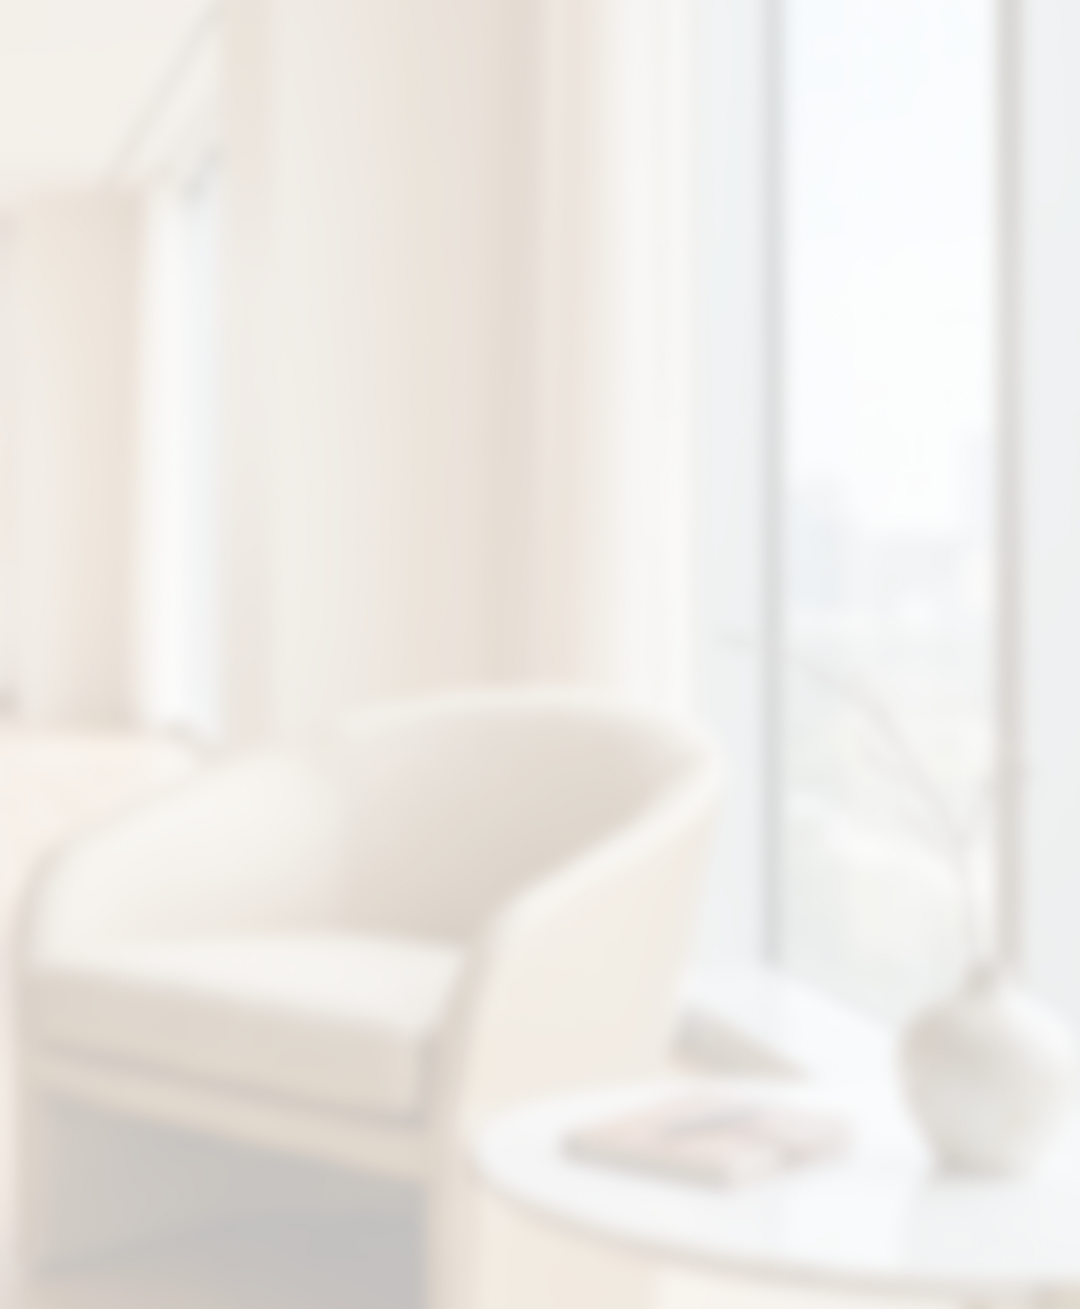
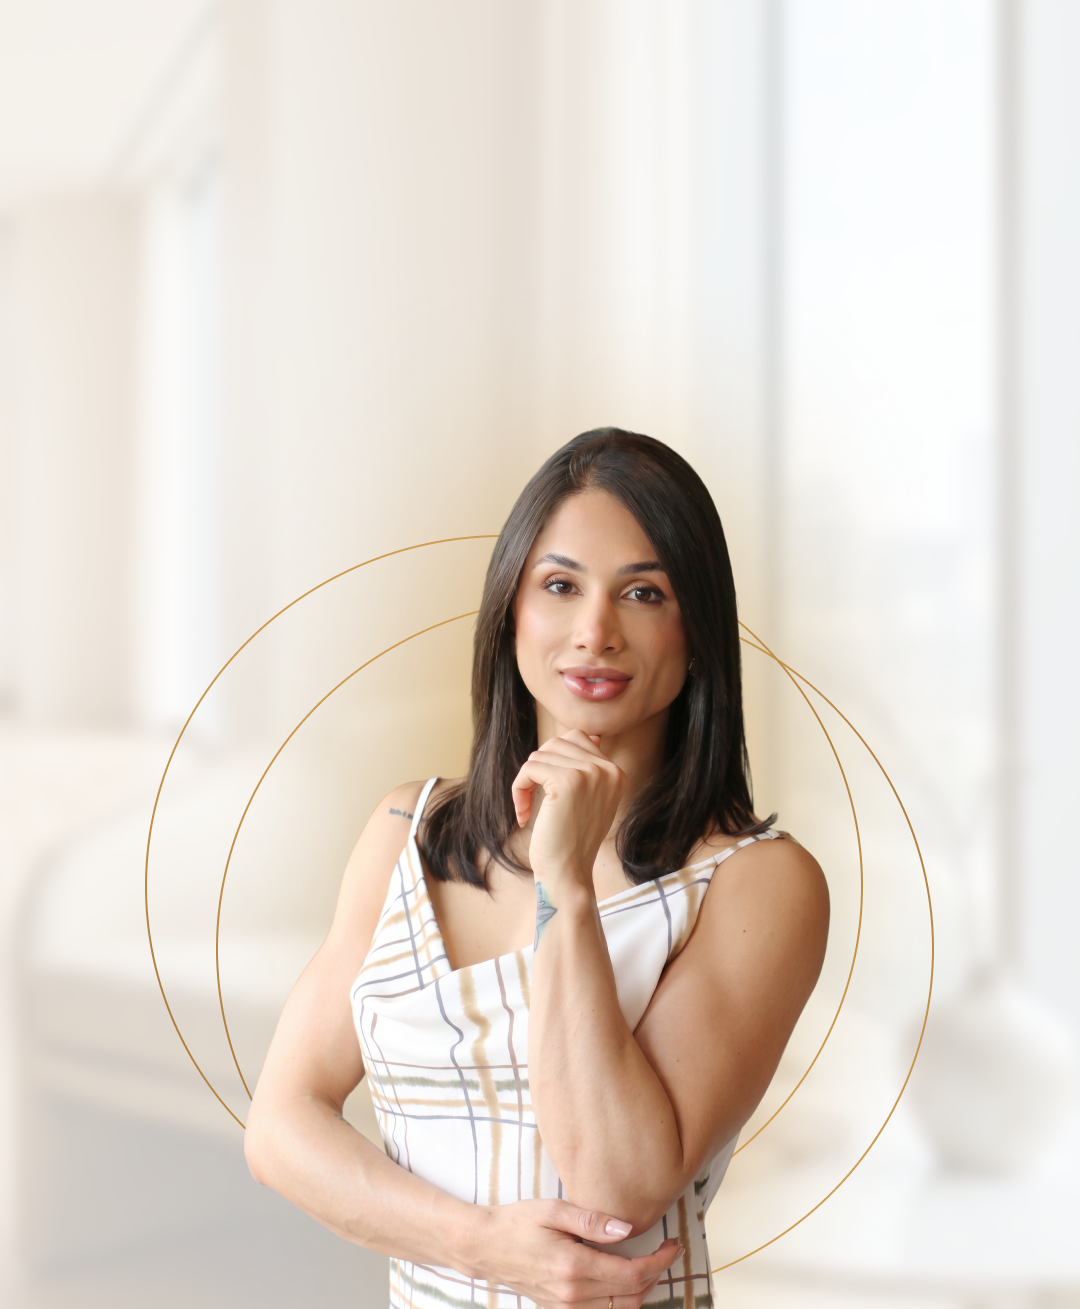
Integrar foto da Michele ao background do hero
Remove a foto separada do hero e usa os novos backgrounds (desktop e mobile) que já incluem a especialista, ajustando o layout para conteúdo de largura única.

Changed region(s): [[0.2139, 0.3056, 0.7944, 1.0], [0.7944, 0.8556, 0.825, 0.8862], [0.7639, 0.8862, 0.7944, 0.9167]]

diff --git a/css/style.css b/css/style.css
@@ -228,15 +228,14 @@ ul {
 }
 
 .hero__inner {
-  display: grid;
-  grid-template-columns: 1.25fr 0.75fr;
+  display: flex;
   align-items: center;
-  gap: 24px;
   min-height: calc(100vh - 280px);
   padding: 32px 0;
 }
 
 .hero__content {
+  max-width: 640px;
   padding-bottom: 40px;
 }
 
@@ -275,19 +274,6 @@ ul {
   color: var(--color-text-light);
   max-width: 520px;
   margin-bottom: 44px;
-}
-
-.hero__media {
-  position: relative;
-  display: flex;
-  justify-content: flex-end;
-  align-items: center;
-}
-
-.hero__image {
-  width: auto;
-  max-width: 100%;
-  max-height: 640px;
 }
 
 /* ===== Info Bar ===== */
@@ -456,11 +442,9 @@ ul {
   }
 
   .hero__inner {
-    grid-template-columns: 1fr;
     text-align: center;
-    min-height: auto;
+    min-height: 640px;
     padding: 40px 0;
-    gap: 16px;
   }
 
   .hero__text {
@@ -468,18 +452,8 @@ ul {
     margin-right: auto;
   }
 
-  .hero__media {
-    order: 2;
-    justify-content: center;
-  }
-
   .hero__content {
-    order: 1;
     padding-bottom: 24px;
-  }
-
-  .hero__image {
-    width: 420px;
   }
 
   .infobar {
@@ -515,10 +489,6 @@ ul {
 
   .hero__text {
     font-size: 1rem;
-  }
-
-  .hero__image {
-    width: 320px;
   }
 
   .btn--solid {

diff --git a/index.html b/index.html
@@ -57,10 +57,6 @@
         </p>
         <a href="#credito-imobiliario" class="btn btn--solid">Simular meu financiamento</a>
       </div>
-
-      <div class="hero__media fade-in">
-        <img src="assets/image-person-hero.png" alt="Michele Carvalho, especialista em crédito imobiliário" class="hero__image">
-      </div>
     </div>
 
     <!-- Info Bar -->